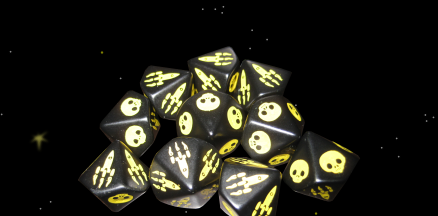
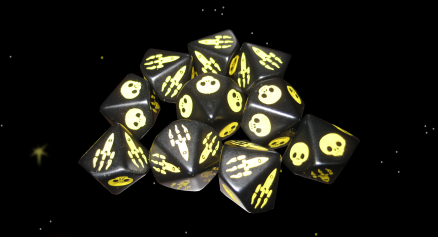
SpacePirates Würfel hinzugefügt

diff --git a/assets/css/style.scss b/assets/css/style.scss
@@ -257,3 +257,8 @@ img.max-w {
   max-width: 100%;
   height: auto;
 }
+
+figcaption {
+  font-style: italic;
+  text-align: center;
+}

diff --git a/Spielregeln/Spielmaterial_aside.md b/Spielregeln/Spielmaterial_aside.md
@@ -1,0 +1,4 @@
+<figure>
+  <img class="max-w" src="{{ site.baseurl }}/assets/images/bg-zufallstabellen.png"/>
+  <figcaption>Am Besten sind natürlich die speziellen SpacePirates Würfel geeignet, ansonsten sehen auch W10 angemessen spacig aus.</figcaption>
+</figure>

diff --git a/Spielregeln/Spielmaterial.md b/Spielregeln/Spielmaterial.md
@@ -1,5 +1,5 @@
 ---
-layout: page
+layout: aside
 permalink: /Spielregeln/Spielmaterial
 title: Was wird alles zum Spielen benötigt?
 ---
